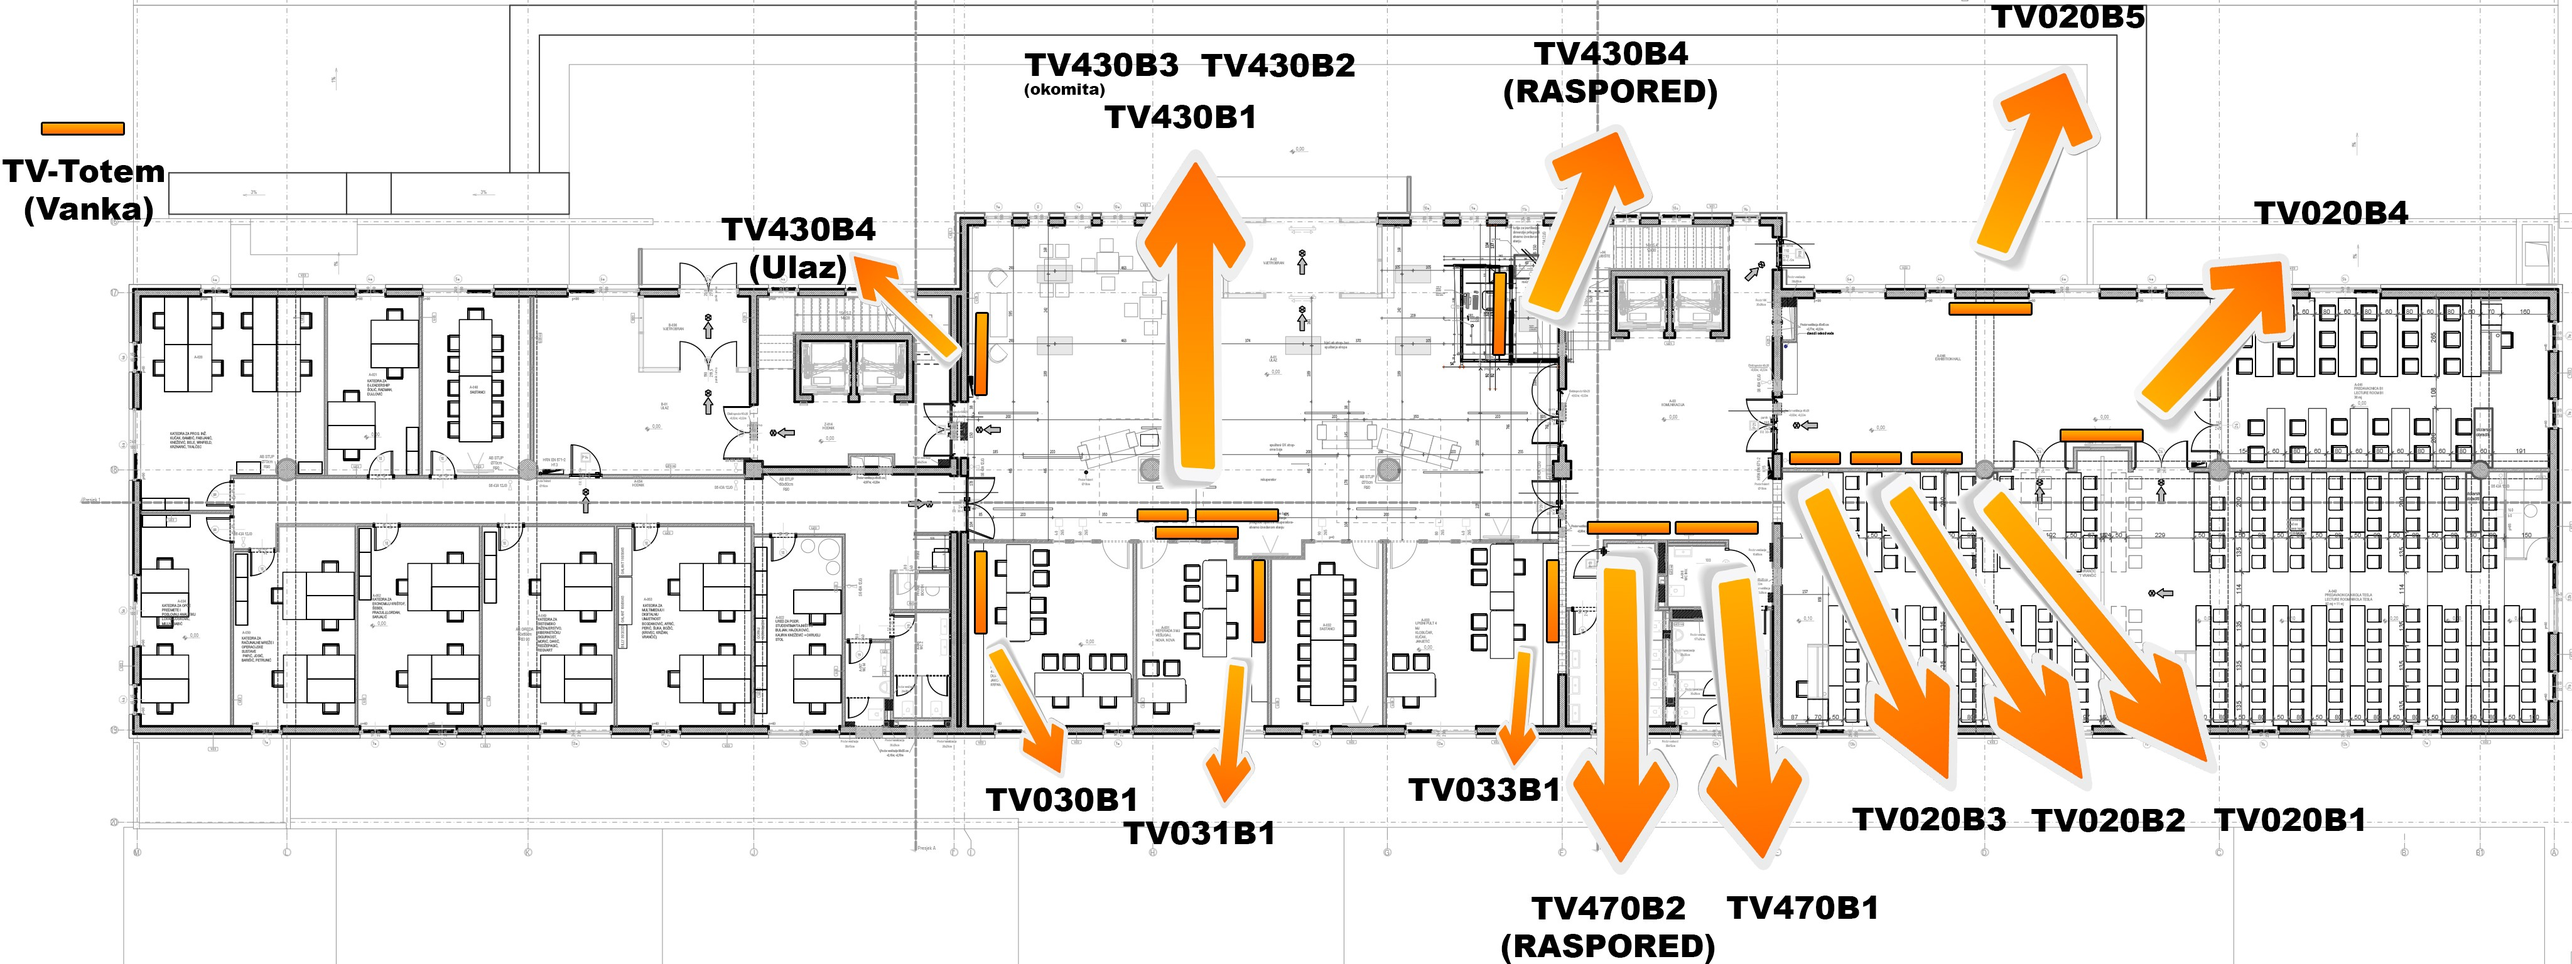
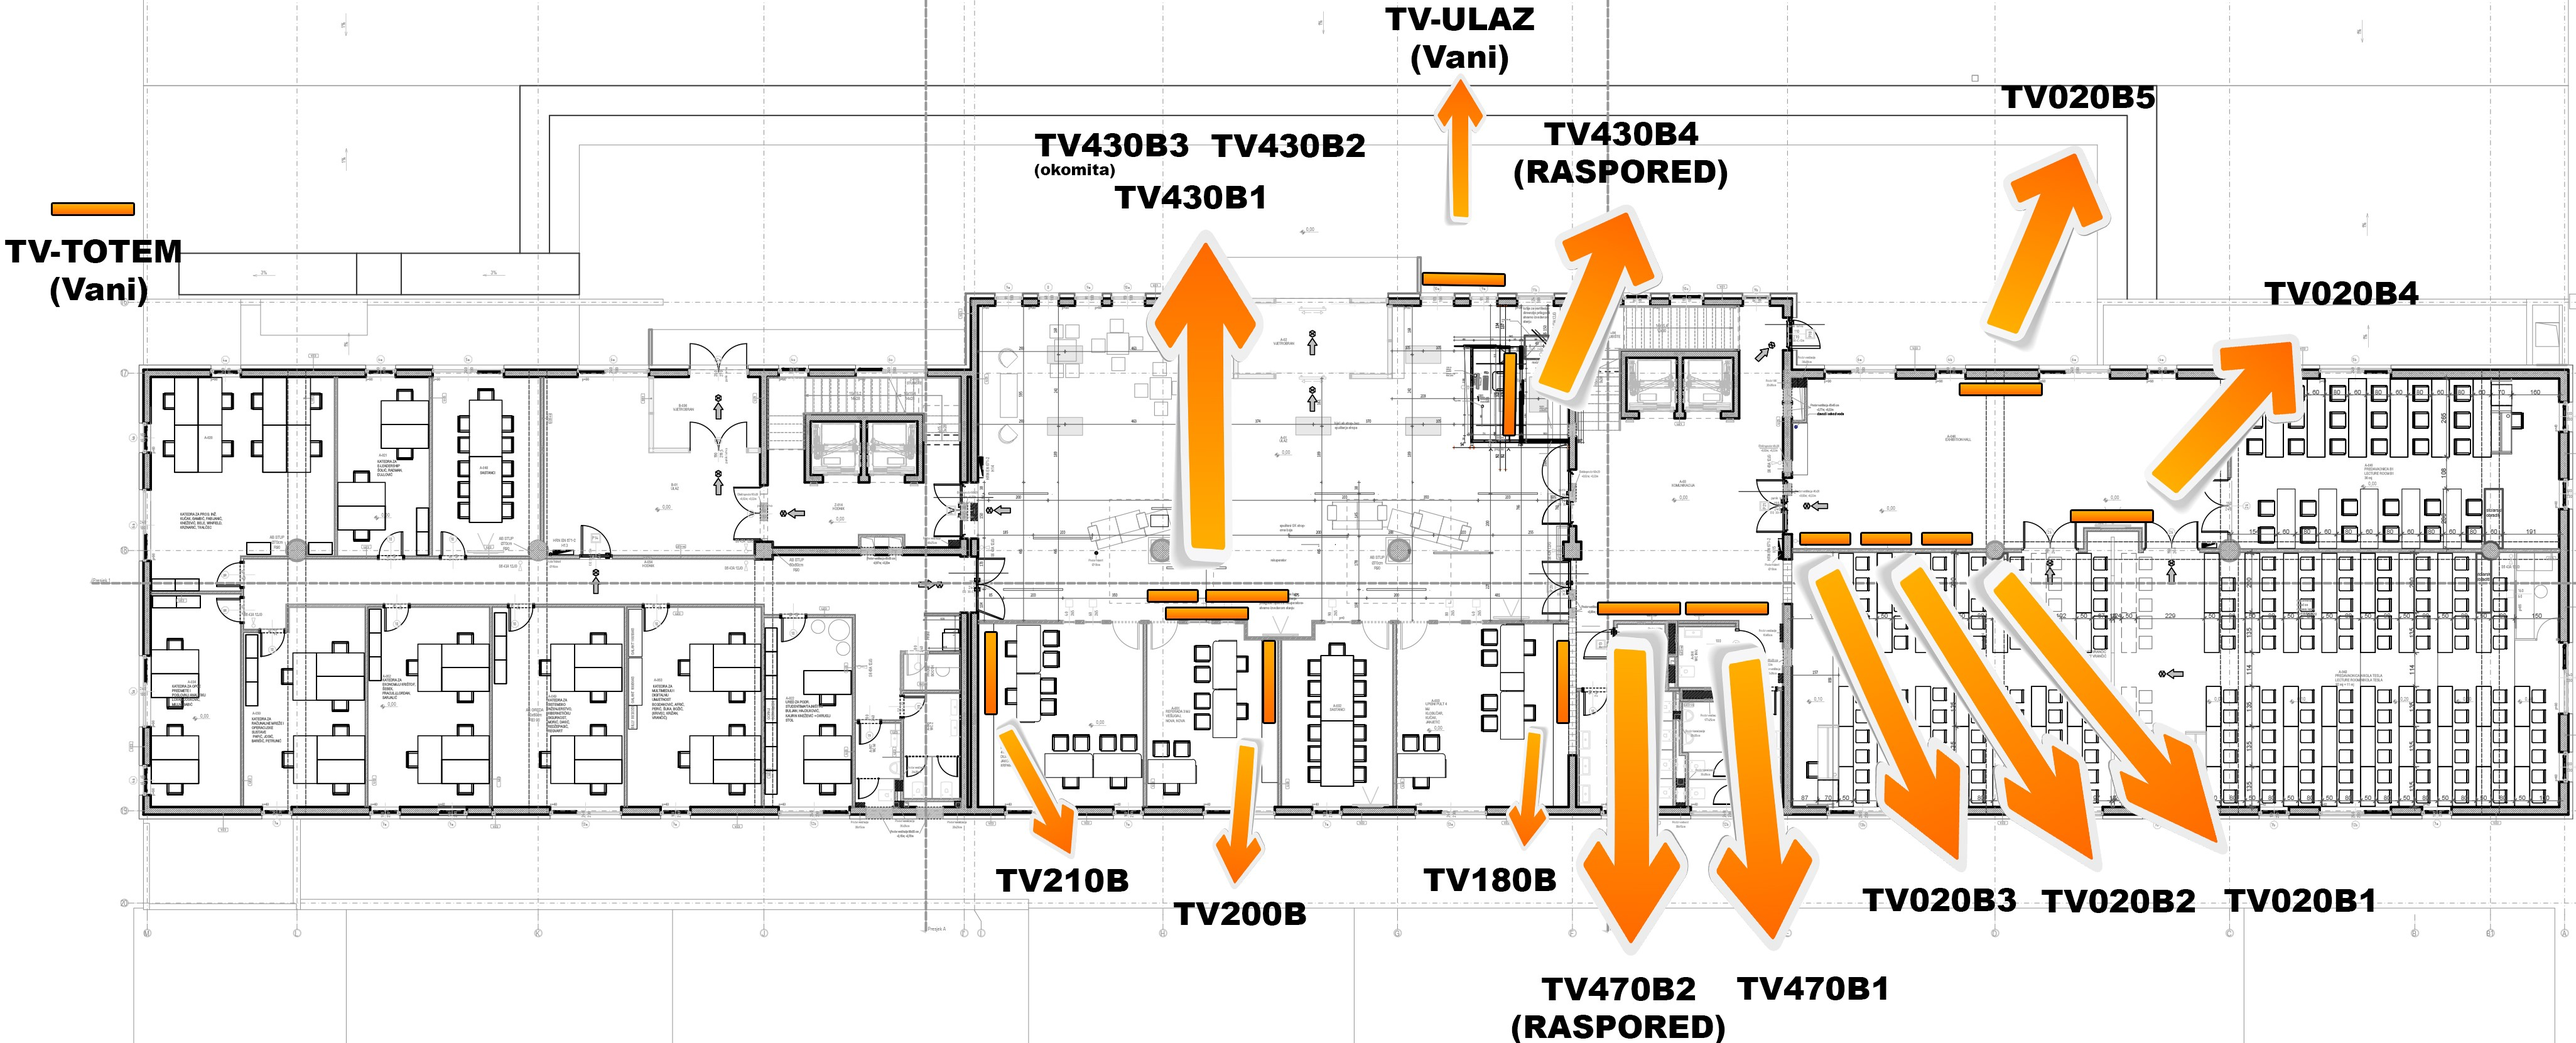
Changed TV locations images

Changed region(s): [[0.0, 0.0, 1.0, 1.0], [0.75, 0.0, 0.8438, 0.0312], [0.1875, 0.1562, 0.2188, 0.1875]]

diff --git a/src/components/ui/BaseDialog.vue b/src/components/ui/BaseDialog.vue
@@ -156,24 +156,24 @@
                     class="modal-tv-map-locations-card-locations-tv-TV-Totem"
                   ></router-link>
                   <router-link
-                    :to="'/Media/233/TV/0'"
+                    :to="'/Media/233/TV/122'"
                     active-class="modal-tv-map-locations-card-locations-tv-active"
-                    class="modal-tv-map-locations-card-locations-tv-TV430B4"
+                    class="modal-tv-map-locations-card-locations-tv-ULAZ"
                   ></router-link>
                   <router-link
-                    :to="'/Media/233/TV/0'"
+                    :to="'/Media/233/TV/123'"
                     active-class="modal-tv-map-locations-card-locations-tv-active"
-                    class="modal-tv-map-locations-card-locations-tv-TV030B1"
+                    class="modal-tv-map-locations-card-locations-tv-TV210B"
                   ></router-link>
                   <router-link
-                    :to="'/Media/233/TV/0'"
+                    :to="'/Media/233/TV/124'"
                     active-class="modal-tv-map-locations-card-locations-tv-active"
-                    class="modal-tv-map-locations-card-locations-tv-TV031B1"
+                    class="modal-tv-map-locations-card-locations-tv-TV200B"
                   ></router-link>
                   <router-link
-                    :to="'/Media/233/TV/0'"
+                    :to="'/Media/233/TV/125'"
                     active-class="modal-tv-map-locations-card-locations-tv-active"
-                    class="modal-tv-map-locations-card-locations-tv-TV033B1"
+                    class="modal-tv-map-locations-card-locations-tv-TV180B"
                   ></router-link>
                 </div>
               </div>
@@ -231,22 +231,22 @@
                   <router-link
                     :to="'/Media/233/TV/43'"
                     active-class="modal-tv-map-locations-card-locations-tv-active"
-                    class="modal-tv-map-locations-card-locations-tv-TV180E1"
+                    class="modal-tv-map-locations-card-locations-tv-TV200E1"
                   ></router-link>
                   <router-link
                     :to="'/Media/233/TV/117'"
                     active-class="modal-tv-map-locations-card-locations-tv-active"
-                    class="modal-tv-map-locations-card-locations-tv-TV180E2"
+                    class="modal-tv-map-locations-card-locations-tv-TV200E2"
                   ></router-link>
                   <router-link
                     :to="'/Media/233/TV/0'"
                     active-class="modal-tv-map-locations-card-locations-tv-active"
-                    class="modal-tv-map-locations-card-locations-tv-TV180E3"
+                    class="modal-tv-map-locations-card-locations-tv-TV260E1"
                   ></router-link>
                   <router-link
                     :to="'/Media/233/TV/0'"
                     active-class="modal-tv-map-locations-card-locations-tv-active"
-                    class="modal-tv-map-locations-card-locations-tv-TV180E4"
+                    class="modal-tv-map-locations-card-locations-tv-TV260E2"
                   ></router-link>
                 </div>
               </div>
@@ -262,12 +262,12 @@
                   <router-link
                     :to="'/Media/233/TV/43'"
                     active-class="modal-tv-map-locations-card-locations-tv-active"
-                    class="modal-tv-map-locations-card-locations-tv-TV190F1"
+                    class="modal-tv-map-locations-card-locations-tv-TV0170F1"
                   ></router-link>
                   <router-link
                     :to="'/Media/233/TV/127'"
                     active-class="modal-tv-map-locations-card-locations-tv-active"
-                    class="modal-tv-map-locations-card-locations-tv-TV190F2"
+                    class="modal-tv-map-locations-card-locations-tv-TV0170F2"
                   ></router-link>
                 </div>
               </div>
@@ -548,97 +548,95 @@ export default {
 }
 
 .modal-tv-map-locations-card-locations-tv-TV430B1 {
-  left: 46.8rem;
-  bottom: 22.7rem;
+  left: 47.2rem;
+  bottom: 21rem;
 }
 
 .modal-tv-map-locations-card-locations-tv-TV430B2 {
-  left: 48.7rem;
-  bottom: 23.8rem;
+  left: 49.1rem;
+  bottom: 22.1rem;
 }
 
 .modal-tv-map-locations-card-locations-tv-TV430B3 {
   width: 2.6rem;
-  left: 46rem;
-  bottom: 23.8rem;
+  left: 46.3rem;
+  bottom: 22.1rem;
 }
 
 .modal-tv-map-locations-card-locations-tv-TV430B4R {
   height: 3.5rem;
   width: 1rem;
-  right: 43.3rem;
-  top: 16.8rem;
+  right: 43.1rem;
+  top: 18.6rem;
 }
 
 .modal-tv-map-locations-card-locations-tv-TV020B1 {
   width: 2.6rem;
-  right: 24.5rem;
-  bottom: 26rem;
+  right: 24.2rem;
+  bottom: 24.2rem;
 }
 
 .modal-tv-map-locations-card-locations-tv-TV020B2 {
   width: 2.6rem;
-  right: 27.2rem;
-  bottom: 26rem;
+  right: 26.9rem;
+  bottom: 24.2rem;
 }
 
 .modal-tv-map-locations-card-locations-tv-TV020B3 {
   width: 2.6rem;
-  right: 29.9rem;
-  bottom: 26rem;
+  right: 29.6rem;
+  bottom: 24.2rem;
 }
 
 .modal-tv-map-locations-card-locations-tv-TV020B4 {
   right: 17rem;
-  bottom: 26.9rem;
+  bottom: 25.1rem;
 }
 
 .modal-tv-map-locations-card-locations-tv-TV020B5 {
-  right: 21.8rem;
-  top: 17.8rem;
+  right: 21.5rem;
+  top: 19.6rem;
 }
 
 .modal-tv-map-locations-card-locations-tv-TV470B1 {
-  right: 32.6rem;
-  bottom: 23rem;
+  right: 32.3rem;
+  bottom: 21.5rem;
 }
 
 .modal-tv-map-locations-card-locations-tv-TV470B2 {
-  right: 36.8rem;
-  bottom: 23rem;
+  right: 36.5rem;
+  bottom: 21.5rem;
 }
 
 .modal-tv-map-locations-card-locations-tv-TV-Totem {
-  left: 1.4rem;
-  top: 10.5rem;
+  left: 1.8rem;
+  top: 12.3rem;
 }
 
-.modal-tv-map-locations-card-locations-tv-TV430B4 {
-  height: 3.5rem;
-  width: 1rem;
-  left: 39.5rem;
-  top: 18.5rem;
+.modal-tv-map-locations-card-locations-tv-ULAZ {
+  left: 57.8rem;
+  top: 15.2rem;
 }
 
-.modal-tv-map-locations-card-locations-tv-TV030B1 {
+.modal-tv-map-locations-card-locations-tv-TV210B {
   height: 3.5rem;
   width: 1rem;
-  left: 39.5rem;
-  top: 28.3rem;
+  left: 39.8rem;
+  top: 30rem;
 }
 
-.modal-tv-map-locations-card-locations-tv-TV031B1 {
+.modal-tv-map-locations-card-locations-tv-TV200B {
   height: 3.5rem;
   width: 1rem;
-  left: 51rem;
-  top: 28.7rem;
+  left: 51.2rem;
+  top: 30.4rem;
 }
 
-.modal-tv-map-locations-card-locations-tv-TV033B1 {
+.modal-tv-map-locations-card-locations-tv-TV180B {
   height: 3.5rem;
   width: 1rem;
-  left: 62.9rem;
-  top: 28.6rem;
+  left: 63.1rem;
+  top: 30.3rem;
 }
 
 .modal-tv-map-locations-card-locations-tv-TV180C1 {
@@ -661,32 +659,32 @@ export default {
   bottom: 24.6rem;
 }
 
-.modal-tv-map-locations-card-locations-tv-TV180E1 {
-  right: 39rem;
-  bottom: 26.8rem;
+.modal-tv-map-locations-card-locations-tv-TV200E1 {
+  right: 38.9rem;
+  bottom: 27rem;
 }
 
-.modal-tv-map-locations-card-locations-tv-TV180E2 {
-  right: 34.8rem;
-  bottom: 26.8rem;
+.modal-tv-map-locations-card-locations-tv-TV200E2 {
+  right: 34.7rem;
+  bottom: 27rem;
 }
 
-.modal-tv-map-locations-card-locations-tv-TV180E3 {
+.modal-tv-map-locations-card-locations-tv-TV260E1 {
   left: 27rem;
-  bottom: 23.8rem;
+  bottom: 24.1rem;
 }
 
-.modal-tv-map-locations-card-locations-tv-TV180E4 {
+.modal-tv-map-locations-card-locations-tv-TV260E2 {
   left: 31.2rem;
-  bottom: 23.8rem;
+  bottom: 24.1rem;
 }
 
-.modal-tv-map-locations-card-locations-tv-TV190F1 {
+.modal-tv-map-locations-card-locations-tv-TV0170F1 {
   right: 38.6rem;
   bottom: 27.5rem;
 }
 
-.modal-tv-map-locations-card-locations-tv-TV190F2 {
+.modal-tv-map-locations-card-locations-tv-TV0170F2 {
   right: 34.5rem;
   bottom: 27.5rem;
 }
